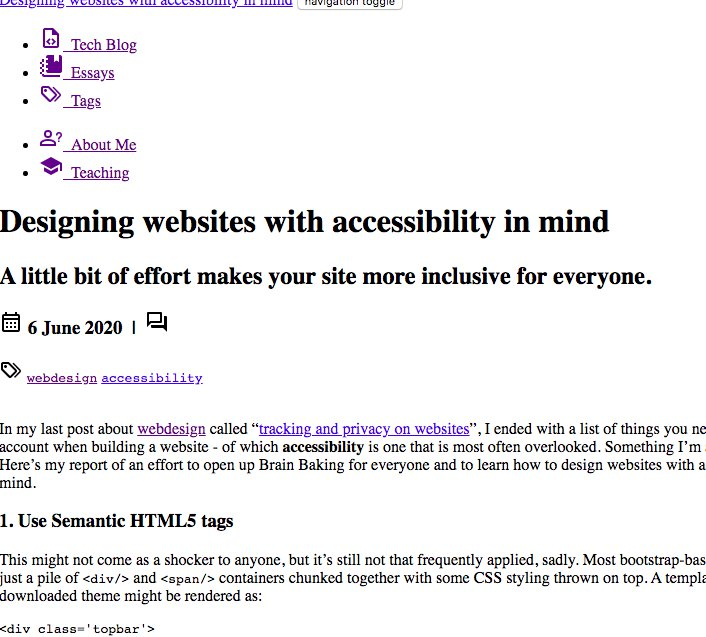
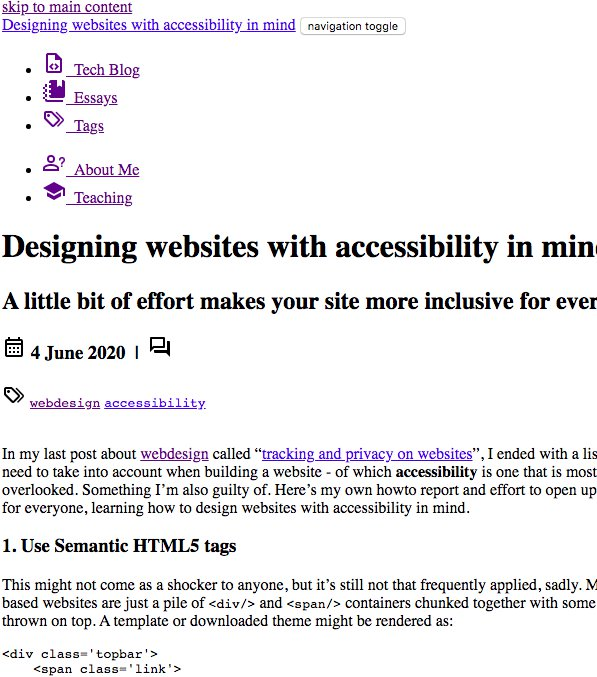
skip to main content accessibility feat

diff --git a/themes/brainbaking-minimal/layouts/partials/header.html b/themes/brainbaking-minimal/layouts/partials/header.html
@@ -14,12 +14,12 @@
     </head>
     <body>
         {{ partial "icons" . }}
+        <div id="skiptocontent">
+            <a href="#top">skip to main content</a>
+        </div>
         <nav class="navbar navbar-default navbar-fixed-top">
-
             <div class="container">
-
                 <div class="navbar-header">
-
                     <a class="navbar-brand visible-xs" href="#">{{ .Title }}</a>
 
                     <button class="navbar-toggle" aria-label="navigation toggle">
@@ -28,11 +28,9 @@
                         <span class="icon-bar"></span>
                         <span class="icon-bar"></span>
                     </button>
-
                 </div>
 
                 <div class="collapse navbar-collapse">
-
                     {{ if .Site.Menus.main }}
                         <ul class="nav navbar-nav">
                             {{ range sort .Site.Menus.main }}
@@ -48,10 +46,7 @@
                             {{ end }}
                         </ul>
                     {{ end }}
-
                 </div>
-
             </div>
-
         </nav>
         <a id="top"></a>

diff --git a/themes/brainbaking-minimal/assets/sass/_brainbaking.sass b/themes/brainbaking-minimal/assets/sass/_brainbaking.sass
@@ -123,3 +123,27 @@ kbd
   border-radius: 3px
   -webkit-box-shadow: inset 0 -1px 0 rgba(0,0,0,.25)
   box-shadow: inset 0 -1px 0 rgba(0,0,0,.25)
+
+#skiptocontent
+  z-index: 100
+
+  a
+    padding: 6px
+    position: absolute
+    top: 100px
+    left: -200px
+    color: white
+    border 1px solid white
+    border-top-right-radius: 8px
+    border-bottom-right-radius: 8px
+    background: black
+    -webkit-transition: left 1s ease-out
+    transition: left 1s ease-out
+
+    &:focus
+      position: absolute
+      left: 0px
+      top: 100px
+      outline-color: transparent
+      -webkit-transition: left .1s ease-in
+      transition: left .1s ease-in

diff --git a/content/post/2020/06/designing-with-accessibility-in-mind.md b/content/post/2020/06/designing-with-accessibility-in-mind.md
@@ -7,7 +7,7 @@ tags:
   - accessibility
 ---
 
-In my last post about [webdesign](/tags/webdesign) called "[tracking and privacy on websites](post/2020/06/tracking-and-privacy-on-websites/)", I ended with a list of things you need to take into account when building a website - of which **accessibility** is one that is most often overlooked. Something I'm also guilty of. Here's my report of an effort to open up Brain Baking for everyone and to learn how to design websites with accessibility in mind.
+In my last post about [webdesign](/tags/webdesign) called "[tracking and privacy on websites](post/2020/06/tracking-and-privacy-on-websites/)", I ended with a list of things you need to take into account when building a website - of which **accessibility** is one that is most often overlooked. Something I'm also guilty of. Here's my own howto report and effort to open up Brain Baking for everyone, learning how to design websites with accessibility in mind.
 
 ### 1. Use Semantic HTML5 tags
 
@@ -49,7 +49,10 @@ Other things to keep in mind:
 
 - Use `<button/>` when it's a button, not a link. `aria-label` is there for hidden labels such as the sandwich nav-button for mobile browsers on this site.
 - Use labels in forms. Avoid use of placeholder values to label or explain input. 
+- Use descriptive link texts (e.g. not "click here")
 - etc...
+
+Try browsing sites by tabbing. Why don't you try it on this site right here? Did you notice the appearance of the otherwise hidden "skip to content" link before navigation? Keyboard users will otherwise go mad if they have to tab through your nav links again and again. 
 
 ### 2. Respect headings and paragraphs
 
@@ -65,7 +68,7 @@ Chrome Dev Tools makes it very easy to check whether the color you've employed h
 
 ![](../contrast.jpg "The contrast ratio 4.58 is OK according to the standards.")
 
-Furthermore, also deliberately think about your font styling and sizing. Fonts should have a `font-display: swap` CSS attribute to avoid flickering (or not rendering if a `.woff2` file fails to load). Since monitor resolutions are higher than ever, why should you be stuck with `font-size: 12px`? Don't use hard-coded `px` or `pt` but use relative `em` and `rem`, and keep "14pt" as a reference for desktop browsers. I detest websites that still have this incredibly small hard-to-read font that hurts even my eyes.
+Furthermore, deliberately think about your font styling and sizing. Fonts should have a `font-display: swap` CSS attribute to avoid flickering (or not rendering if a `.woff2` file fails to load). Since monitor resolutions are higher than ever, why should you be stuck with `font-size: 12px`? Don't use hard-coded `px` or `pt` but use relative `em` and `rem`, and keep "14pt" as a reference for desktop browsers. I detest websites that still have this incredibly small hard-to-read font that hurts even my eyes.
 
 ### 4. About images... Use `<figure/>`
 
@@ -107,8 +110,16 @@ Also, what doesn't get loaded without JavaScript? Cookies broke? Form submission
 
 ### 6. Don't know what to alter? Use analysis tools.
 
-Besides the websites [www.webaccessibility.com](www.webaccessibility.com) and the [WAVE web accessibility evaluation tool](https://wave.webaim.org), there's actually something better, and it's again built-in into DevTools: it's called **Lighthouse**, and can be booted up in the "Audits" tab. Lighthouse will also tell you what to alter to speed up things, so it's not an "accessibility-only" tool.
+Besides the websites [webaccessibility.com](www.webaccessibility.com) and the [WAVE web accessibility evaluation tool](https://wave.webaim.org), there's actually something better, and it's again built-in into DevTools: it's called **Lighthouse**, and can be booted up in the "Audits" tab. Lighthouse will also tell you what to alter to speed up things, so it's not an "accessibility-only" tool.
 
 ![](../lighthouse.jpg "A Lighthouse report on a Brain Baking article")
 
 Sadly, scoring more than `65%` on accessibility is proving to be difficult, since most issues come from Commento's lack of form labeling and usage of `alt` in avatar images. At least I'm no longer flunked!
+
+If you are interested in trying a screen reader yourself, you can configure [VoiceOver for Mac](https://www.youtube.com/watch?v=5R-6WvAihms) to see how it helps you navigate webpages, or [NVDA for Windows](https://www.youtube.com/watch?v=Jao3s_CwdRU). As the videos I've linked to indicate, navigating by header is extremely important. 
+
+Resources:
+
+* [Web Accessibility Toolkit](https://accessibility.arl.org/standards-best-practices/) - Standards & Best Practices
+* [MDN Web Docs: What is accessibility?](https://developer.mozilla.org/en-US/docs/Learn/Accessibility/What_is_accessibility)
+* [Google Developers: How To Do an Accessibility Review](https://developers.google.com/web/fundamentals/accessibility/how-to-review)
